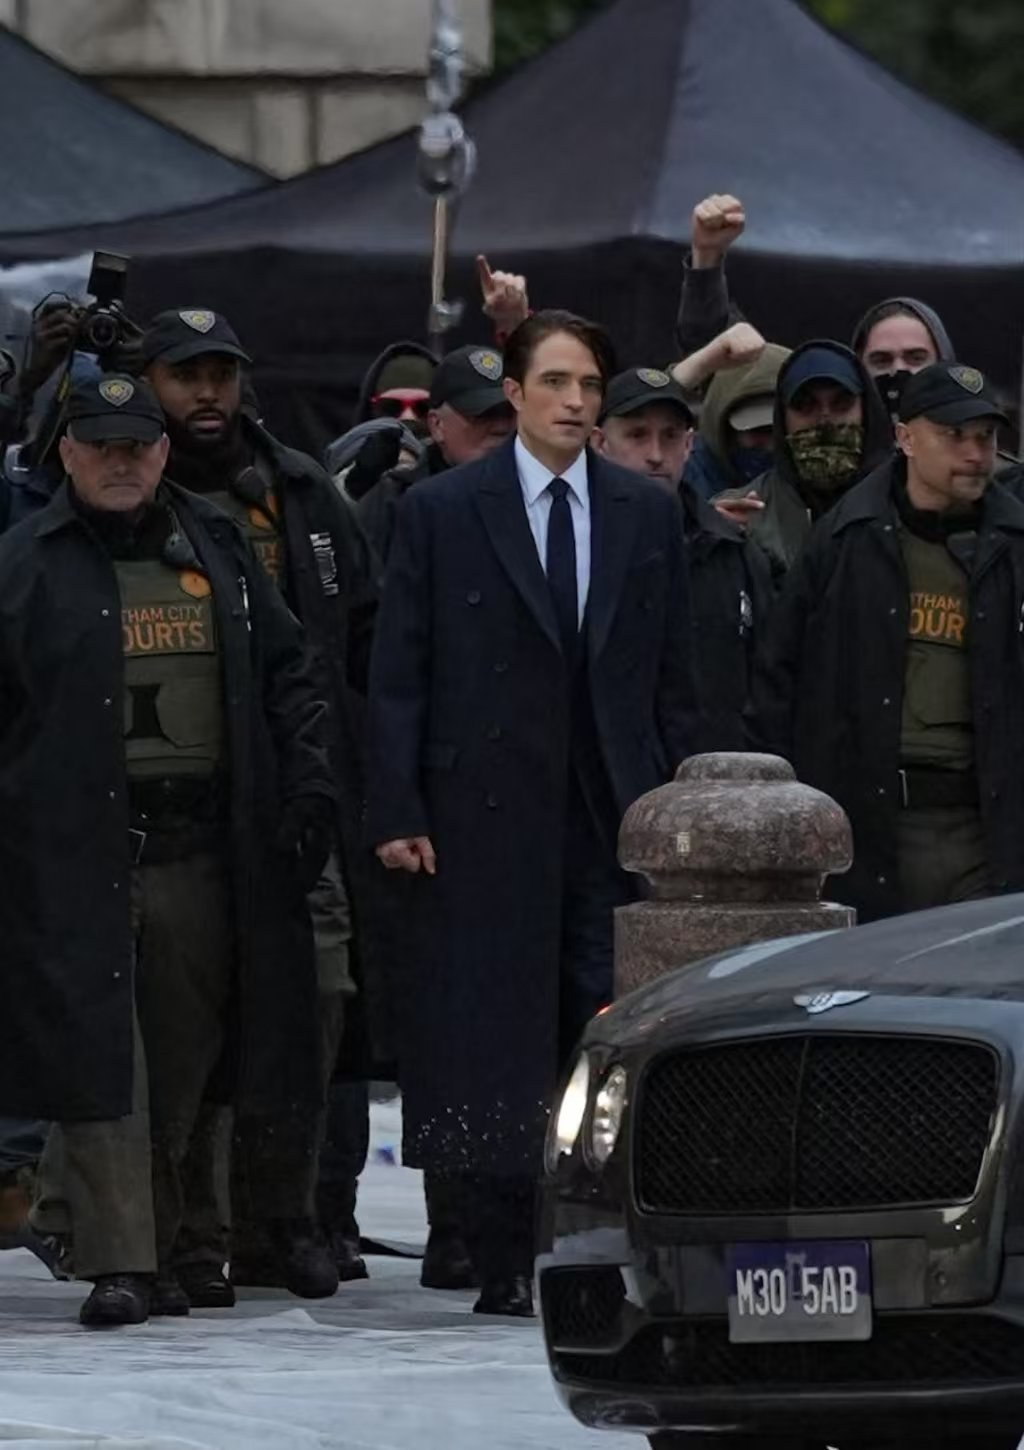
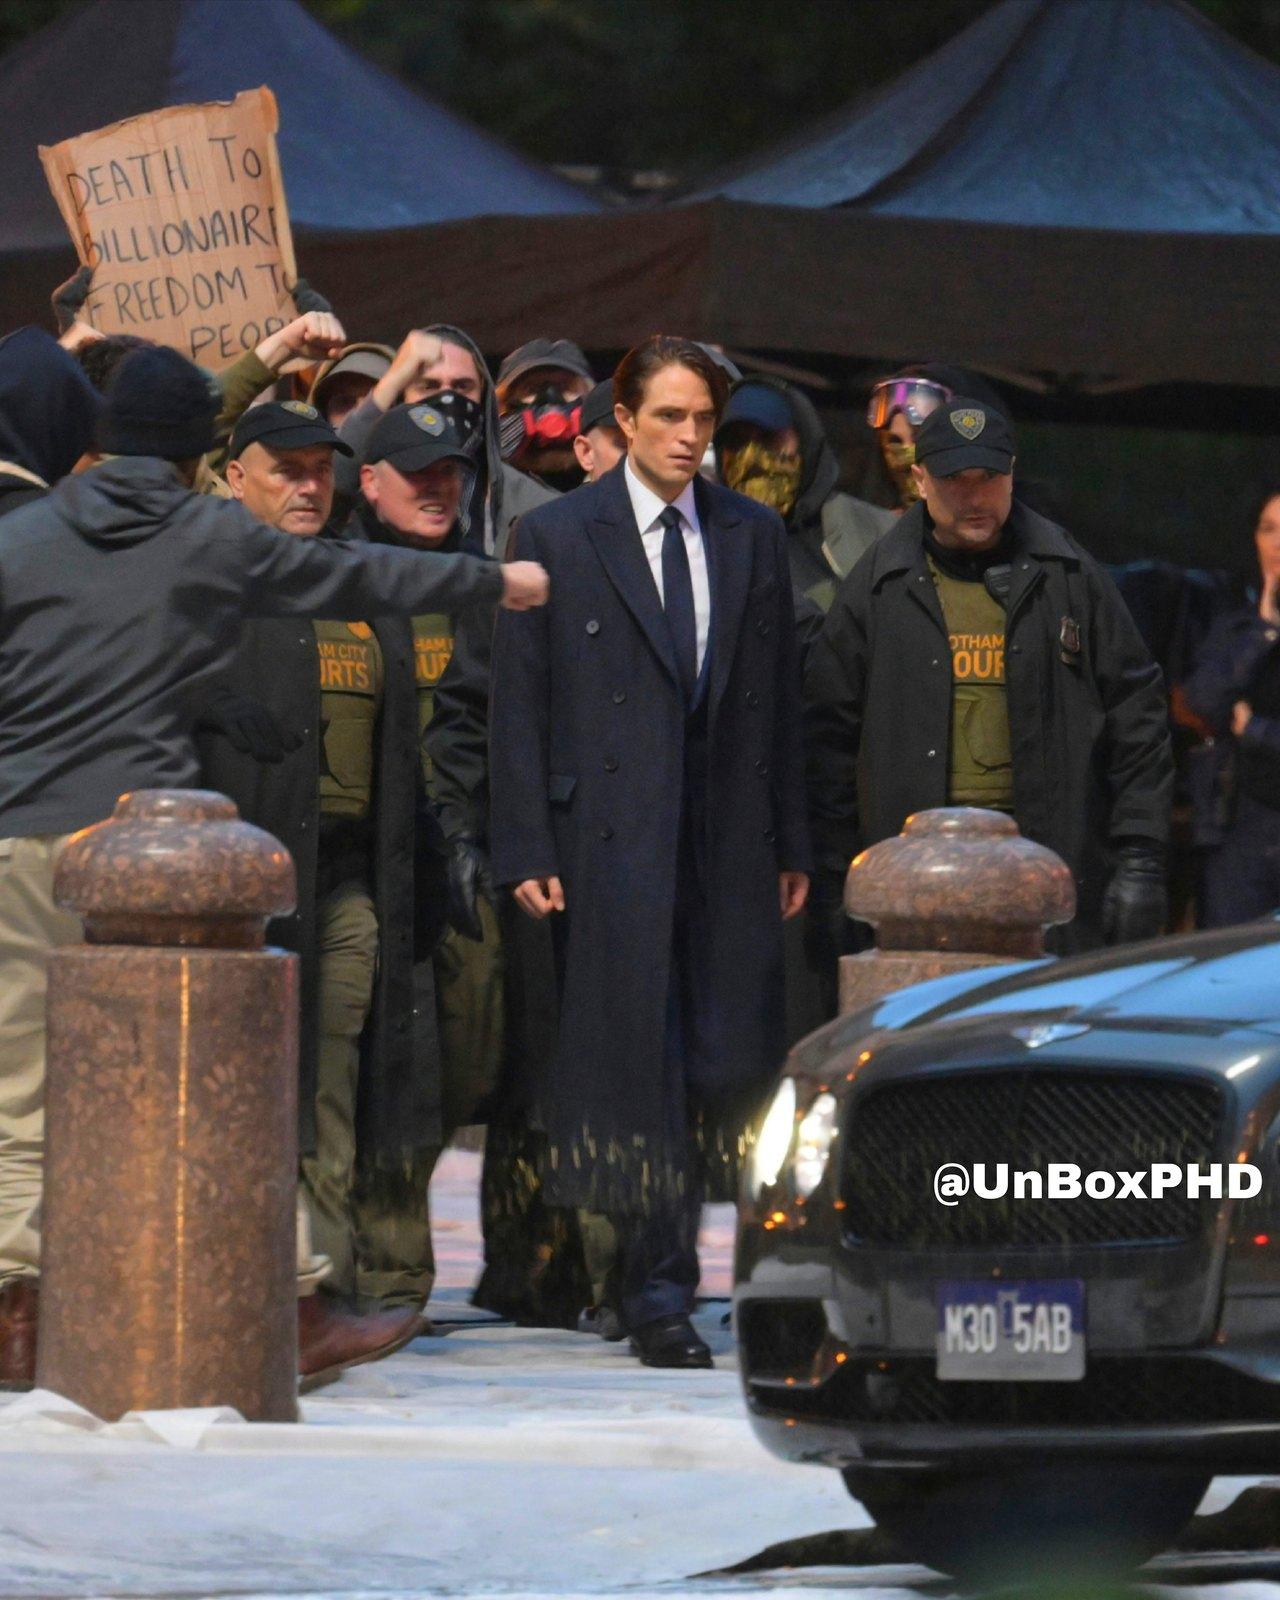
feat(gallery): add HQ London protest stills from UnBoxPHD
Supplement the Sept 13 St Paul's shoot with escort wide, Bruce profile,
and Bentley door close-ups; replace two earlier stills with higher-res frames.

diff --git a/src/lib/gallery.ts b/src/lib/gallery.ts
@@ -209,14 +209,35 @@ export const GALLERIES: GalleryGroup[] = [
     title: "第二部路透",
     titleEn: "The Batman: Part II",
     intro:
-      "《新蝙蝠侠2》外景片场记录。苏格兰格拉斯哥冬季雪景、战车追逐与改款战衣之后，9 月剧组转至伦敦圣保罗大教堂拍摄法院外抗议场面：帕丁森以布鲁斯身份出镜，戈登同场，抗议标语引发猫头鹰法庭等推测（官方未确认）。",
+      "《新蝙蝠侠2》外景片场记录。苏格兰格拉斯哥冬季雪景、战车追逐与改款战衣之后，9 月剧组转至伦敦圣保罗大教堂拍摄法院外抗议场面：帕丁森以布鲁斯身份出镜，戈登同场，抗议标语引发猫头鹰法庭等推测（官方未确认）。9 月 14–15 日补入同一组更高清护送与登车照片。",
     stills: [
+      {
+        src: "/media/log/p2-13-bruce-walk.jpg",
+        title: "GCPD 护送广角",
+        caption:
+          "9 月 14 日补档高清：便装布鲁斯在两名「GOTHAM CITY COURTS」背心警员之间走向宾利，圣保罗大教堂石柱与抗议人群同框。",
+        source: "片场路透 · UnBoxPHD / The Batman Saga News",
+      },
+      {
+        src: "/media/log/p2-13-bruce-profile.jpg",
+        title: "布鲁斯侧影",
+        caption:
+          "侧分头、深色西装的布鲁斯在闪光灯与人群中被护送。发型比第一部更整齐，影迷据此联想到《Year One》时期的韦恩。",
+        source: "片场路透 · UnBoxPHD / The Batman Saga News",
+      },
+      {
+        src: "/media/log/p2-13-bentley-door.jpg",
+        title: "手扶宾利车门",
+        caption:
+          "护送结束后的登车特写：帕丁森以布鲁斯身份握住黑色宾利车门，身旁安保伸手护栏。比先前远景更清楚。",
+        source: "片场路透 · UnBoxPHD / The Batman Saga News",
+      },
       {
         src: "/media/log/p2-13-bruce-cops.jpg",
         title: "GCPD 护送布鲁斯",
         caption:
-          "便装布鲁斯在「GOTHAM CITY COURTS」背心警员护卫下走向等候的宾利（牌照 M30 5AB）。高清补档，前景可见车头与石墩。",
-        source: "片场路透 · 伦敦外景高清",
+          "便装布鲁斯在「GOTHAM CITY COURTS」背心警员护卫下走向等候的宾利。9 月 14 日高清替换。",
+        source: "片场路透 · UnBoxPHD / The Batman Saga News",
       },
       {
         src: "/media/log/p2-13-bruce-crush.jpg",
@@ -291,8 +312,8 @@ export const GALLERIES: GalleryGroup[] = [
         src: "/media/log/p2-13-reeves.jpg",
         title: "里夫斯与梅塞施密特调度",
         caption:
-          "导演马特·里夫斯与摄影指导埃里克·梅塞施密特在圣保罗大教堂外景机位旁现场调度抗议戏。",
-        source: "片场路透 · alesialon / benstrefford",
+          "导演马特·里夫斯与摄影指导埃里克·梅塞施密特在圣保罗大教堂外景机位旁现场调度抗议戏。9 月 15 日高清替换。",
+        source: "片场路透 · UnBoxPHD / The Batman Saga News",
       },
       {
         src: "/media/log/p2-04-blood.jpg",

diff --git a/src/data/film.ts b/src/data/film.ts
@@ -936,17 +936,20 @@ export const LOG: LogEntry[] = [
     date: "2026.09.13",
     iso: "2026-09-13",
     title: "伦敦法院外抗议戏：帕丁森以布鲁斯身份穿过人群，戈登同场",
-    body: "剧组转至伦敦圣保罗大教堂一带（布景为哥谭律师公会 / 法院台阶）。罗伯特·帕丁森本人以便装布鲁斯·韦恩出镜，由 GCPD 警员护送穿过抗议人群，随后登上等候的宾利轿车。同场拍到杰弗里·怀特以吉姆·戈登身份抵达；阿尔弗雷德由安迪·瑟金斯的替身出演（瑟金斯本人当时在新西兰筹备《猎魔》）。导演马特·里夫斯与摄影指导埃里克·梅塞施密特在场调度。抗议标语可见 Court of Fowls、Court of Oligarchs、Eat the rich、Re$i$t、Your Greed is Killing Us、SAVE US 等，部分群众佩戴遮脸白面罩，其中一人夹克绘有无政府主义 A 字符号；另有「SAVE US」蝙蝠头套图案与疑似《未来蝙蝠侠》剪影的纸板道具。猫头鹰法庭、无政府客等角色均为影迷据此作出的推测，官方未予确认。",
+    body: "剧组转至伦敦圣保罗大教堂一带（布景为哥谭律师公会 / 法院台阶）。罗伯特·帕丁森本人以便装布鲁斯·韦恩出镜，由 GCPD 警员护送穿过抗议人群，随后登上等候的宾利轿车。同场拍到杰弗里·怀特以吉姆·戈登身份抵达；阿尔弗雷德由安迪·瑟金斯的替身出演（瑟金斯本人当时在新西兰筹备《猎魔》）。导演马特·里夫斯与摄影指导埃里克·梅塞施密特在场调度。抗议标语可见 Court of Fowls、Court of Oligarchs、Eat the rich、Re$i$t、Your Greed is Killing Us、SAVE US 等，部分群众佩戴遮脸白面罩，其中一人夹克绘有无政府主义 A 字符号；另有「SAVE US」蝙蝠头套图案与疑似《未来蝙蝠侠》剪影的纸板道具。猫头鹰法庭、无政府客等角色均为影迷据此作出的推测，官方未予确认。9 月 14–15 日补出同一组外景的更高清照片：护送广角、布鲁斯侧影，以及登车时手扶宾利车门的特写。",
     kind: "shoot",
-    source: "片场路透 · IGN / The Batman Saga News",
+    source: "片场路透 · IGN / The Batman Saga News / UnBoxPHD",
     sourceUrl: "https://www.ign.com/articles/the-batman-part-2-set-photos-court-of-owls-anarky",
     sourceTier: "set",
-    verifiedAt: "2026.09.14",
+    verifiedAt: "2026.09.16",
     href: "/gallery",
     hash: "part2",
     image: "/media/log/p2-13-bruce-cops.jpg",
     images: [
       "/media/log/p2-13-bruce-cops.jpg",
+      "/media/log/p2-13-bruce-walk.jpg",
+      "/media/log/p2-13-bruce-profile.jpg",
+      "/media/log/p2-13-bentley-door.jpg",
       "/media/log/p2-13-bruce-crush.jpg",
       "/media/log/p2-13-bruce-steps.jpg",
       "/media/log/p2-13-gordon.jpg",
